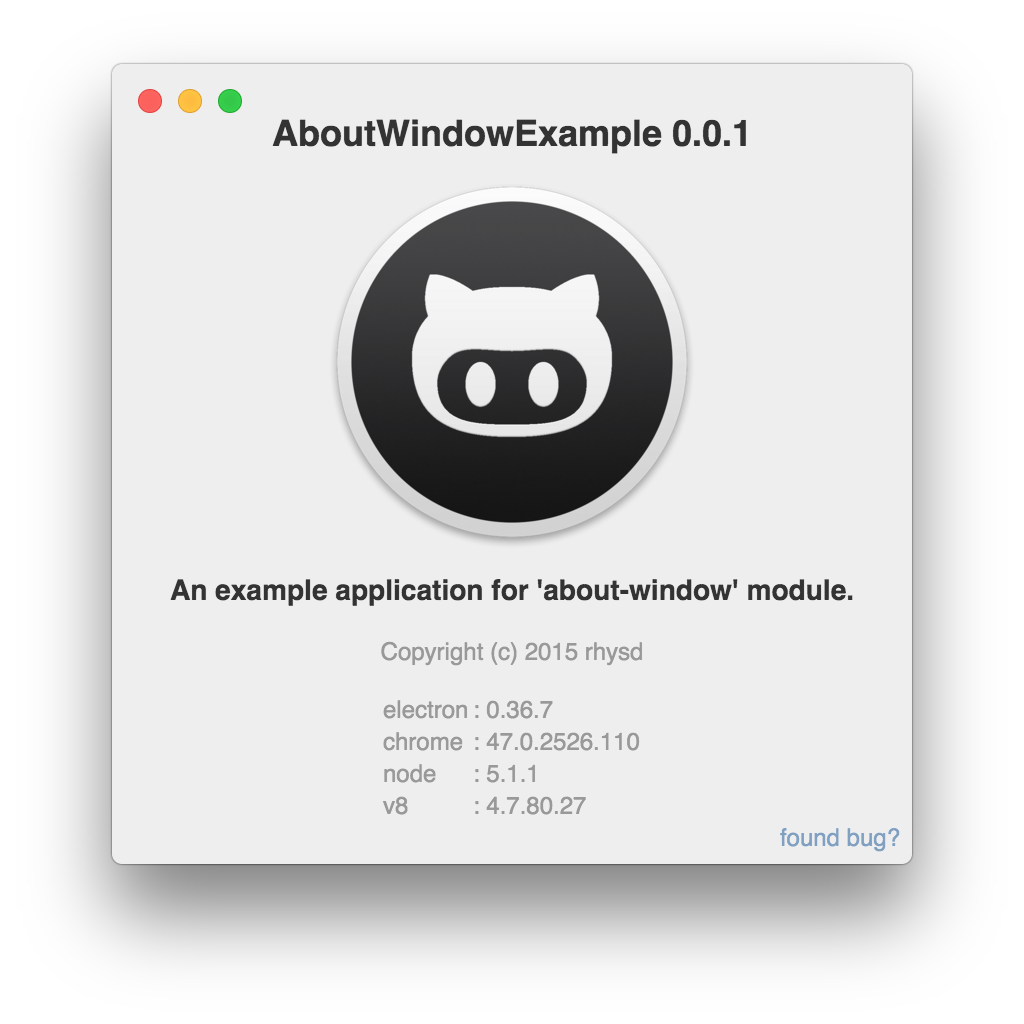
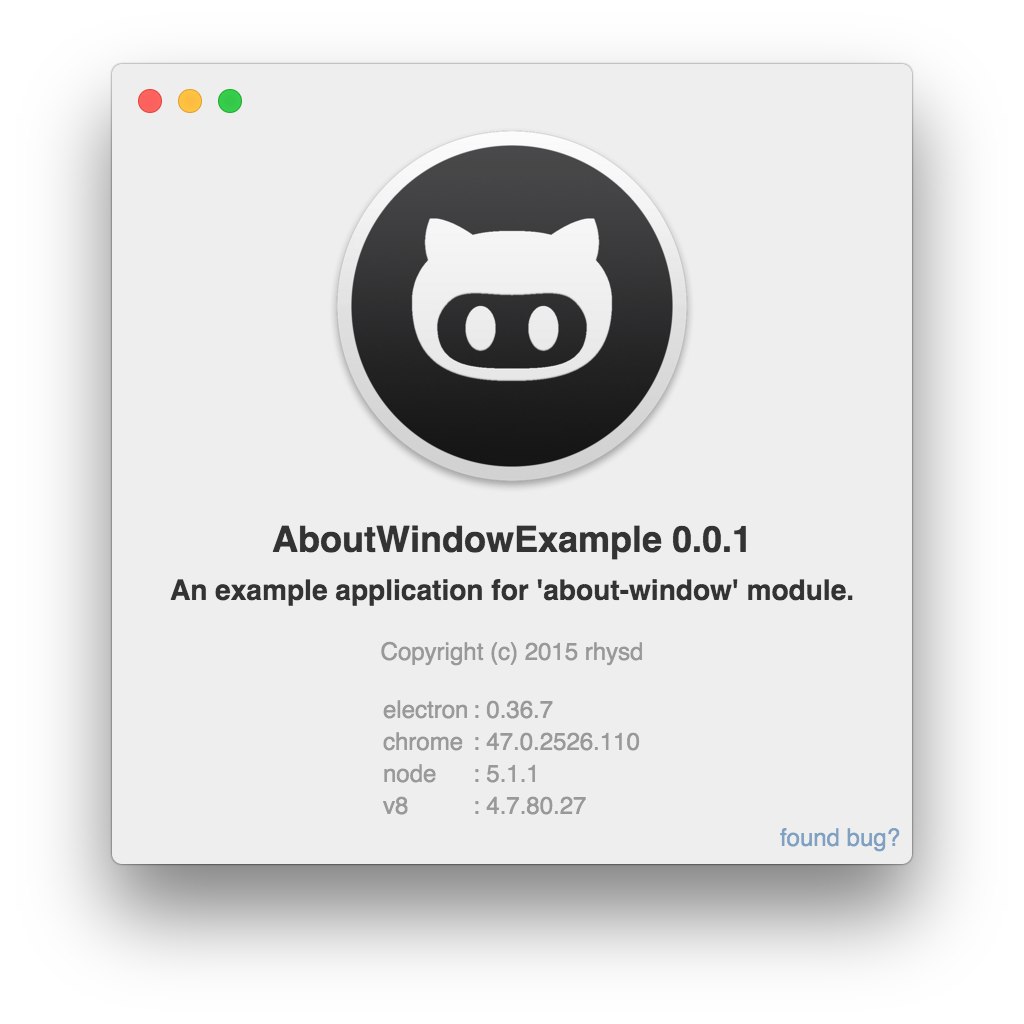
about-window: update screenshots in OS X and Windows

Changed region(s): [[0.25, 0.0938, 0.75, 0.5625]]

diff --git a/all.md b/all.md
@@ -10,9 +10,9 @@ All Screenshots
 
 ![](about-window/about-window-os-x.png)
 
-* [about-window-windows.png](about-window/about-window-windows.png)
+* [about-window-windows.jpg](about-window/about-window-windows.jpg)
 
-![](about-window/about-window-windows.png)
+![](about-window/about-window-windows.jpg)
 
 
 ## [clever-f.vim/](https://github.com/rhysd/clever-f.vim/)
